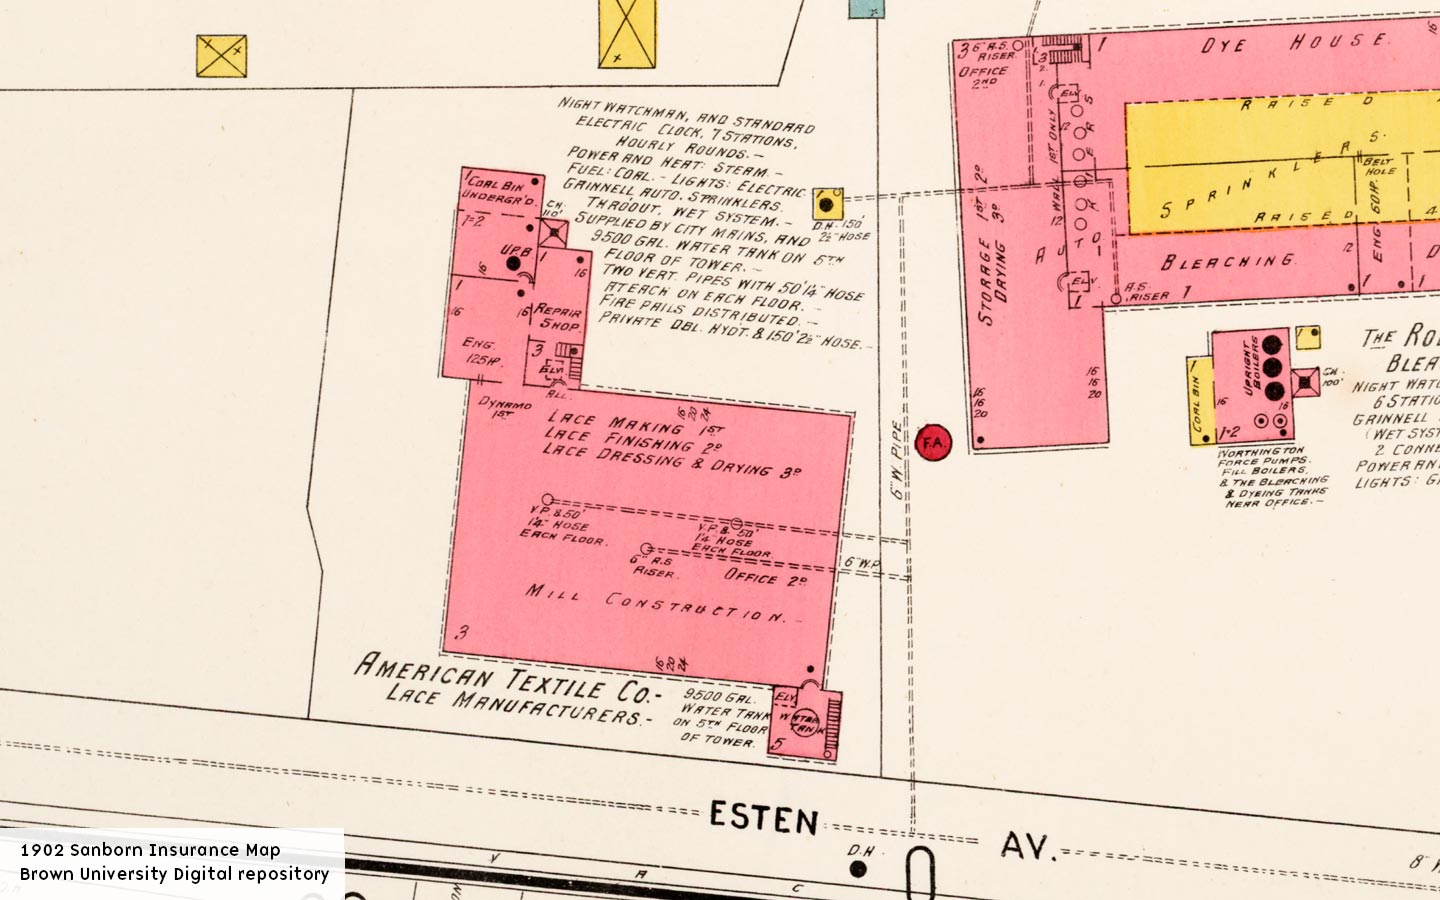
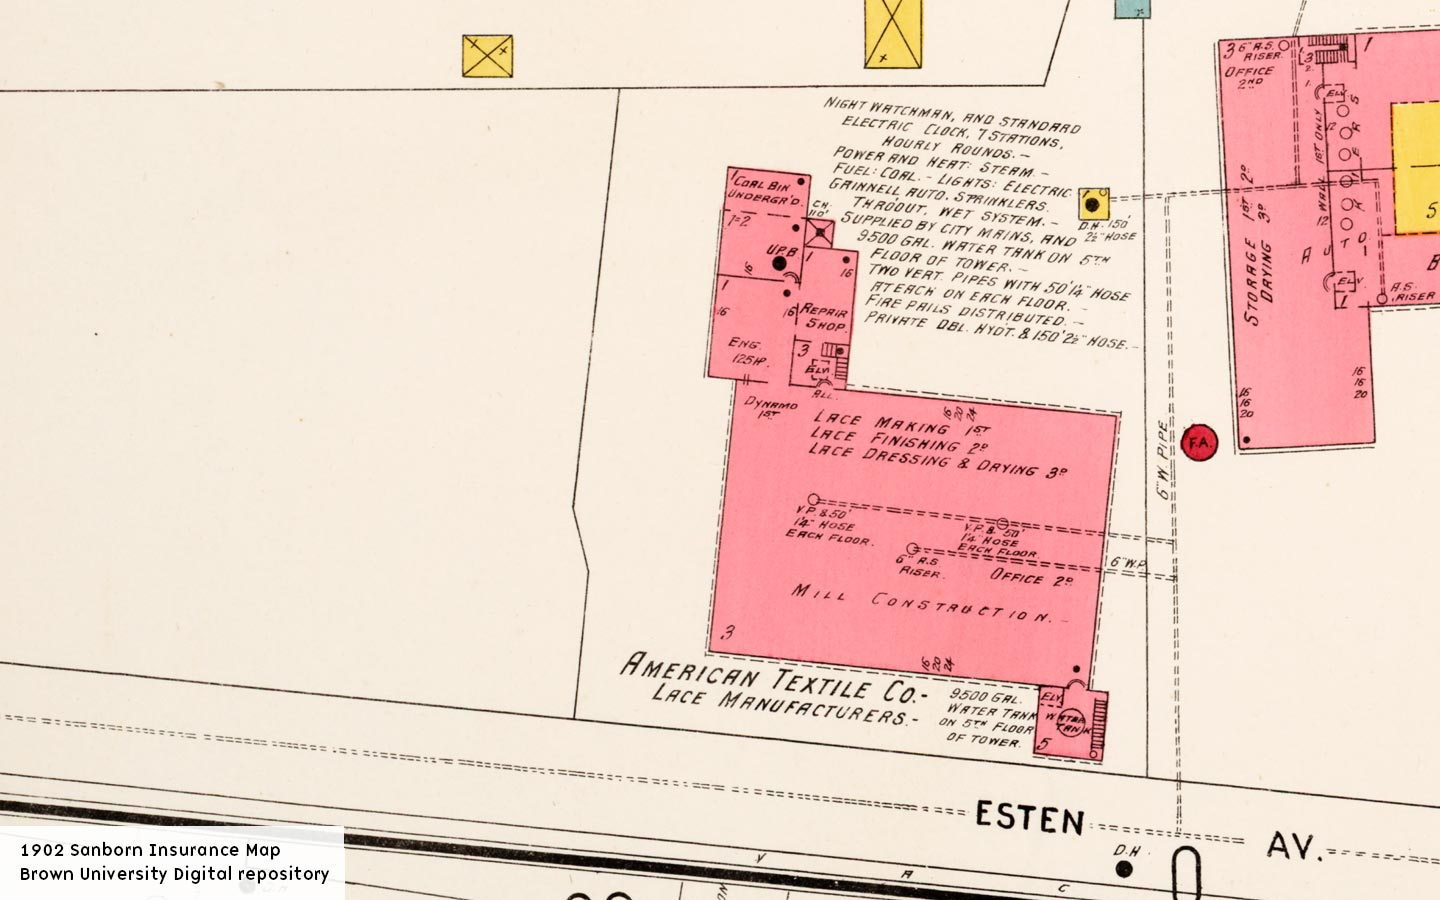
Updates to Amer Textile and Cumb Plastics

diff --git a/_property/american-textile-pwt.md b/_property/american-textile-pwt.md
@@ -4,7 +4,7 @@ slug: american-textile-pwt
 aka: 
 date-modified: 2021-02-27 12:00
 
-built: '1899'
+built: '1899, circa 1920'
 demolition: 
 redeveloped: 
 units:
@@ -34,10 +34,10 @@ thumbnail: amertextile-jh-2003-05-10.jpg
 
 images:
   - url: amertextile-ppl-date-unknown-01.jpg
-    caption: 'Date unknown (likely 1900–1920), before the 1949 weave shed and the fourth floor penthouse — Rhode Island Photograph Collection</a>, Providence Public Library'
+    caption: 'Date unknown (likely 1900–1910), before the 1920 weave shed and fourth floor penthouse — Rhode Island Photograph Collection</a>, Providence Public Library'
     alt: 'A four-story, twelve bay wide main red brick building, nine bays deep, with an ornate stair tower on the south east corner featuring a group of three arched windows, topped by brickwork design outlining five square crosses, topped by diamond brick patterns surrounding three circular windows, all topped by a double hip roof.'
   - url: amertextile-pawtlib-date-unknown-01.jpg
-    caption: 'Date unknown, before the 1949 weave shed but after the fourth floor penthouse — Pawtucket Library collection'
+    caption: 'Date unknown, before the 1920 weave shed but after the fourth floor penthouse — Pawtucket Library collection'
   - url: amertextile-jh-2003-05-01.jpg
   - url: amertextile-jh-2003-05-02.jpg
   - url: amertextile-jh-2003-05-03.jpg
@@ -66,8 +66,10 @@ images:
   - url: amertextile-jh-2003-05-26.jpg
   - url: amertextile-sanborn-1902-01.jpg
     caption: 'Sanborn Insurance Map from 1902, Brown University Digital repository. The weave shed has not yet been built and the 4th floor has not been added (note the “3” in the bottom left corner of the building footprint’s outline)'
+  - url: amertextile-sanborn-1923-01.jpg
+    caption: 'Sanborn Insurance Map from 1923, Brown University Digital repository. The weave shed has been built and the 4th floor has been added (note the “4th” along the yellow lines over the main structure, upside down)'
 
-imagescredit: 'Contributions from the <a href="//provlibdigital.org/islandora/object/islandora%3A11068" target="_blank">Rhode Island Photograph Collection</a>, Providence Public Library and <a href="//www.flickr.com/photos/pawtucketlibrary/46946460295/in/photolist-2fQQMqb-25iQTKn-2ewuT4e/" target="_blank">Pawtucket Library collection</a>'
+imagescredit: 'Contributions from the <a href="//provlibdigital.org/islandora/object/islandora%3A11068" target="_blank">Rhode Island Photograph Collection</a> at the Providence Public Library, <a href="//www.flickr.com/photos/pawtucketlibrary/46946460295/in/photolist-2fQQMqb-25iQTKn-2ewuT4e/" target="_blank">Pawtucket Library Flickr collection</a>, and the <a href="//repository.library.brown.edu/studio/item/bdr:212320/" target=_blank">Brown University Digital Repository</a>.'
 
 #external:
 #  - source: 'Providence Journal (permalink)'
@@ -88,7 +90,7 @@ The property is owned by a group of small real estate companies that also lease 
 
 ### History
 
-Designed by Howe, Prout, & Ekman (known for designing the 1950s addition to the Providence Public Library), this mill was once the largest lace producer in the country. A three-story brick pier building with 4th story penthouse featuring a 5-story elaborately detailed hip roof tower. The tower is a fine period example and can be seen from the surrounding neighborhood, including traffic on Interstate 95. A later addition (1945–1950) is attached at the north side, concealing a sawtooth weave shed behind it. 
+Designed by Howe, Prout, & Ekman (known for designing the 1950s addition to the Providence Public Library), this mill was once the largest lace producer in the country. A three-story brick pier building with 4th story penthouse featuring a 5-story elaborately detailed hip roof tower. The tower is a fine period example and can be seen from the surrounding neighborhood, including traffic on Interstate 95. A later addition of a sawtooth weave shed was added around 1920 on the north side. 
 
 _From “Pawtucket Past and Present, being a brief account of the beginning and progress of its industries and a resume of the early history of the city,” by the Slater Trust Company, 1917_
 

diff --git a/README.md b/README.md
@@ -1,9 +1,12 @@
 ArtInRuins
 ==========
 
-Locally generated static HTML site built with [Jekyll](https://jekyllrb.com/) with 
-[SASS](https://sass-lang.com/), and [Autoprefixer](https://github.com/vwochnik/jekyll-autoprefixer).
+View the production site: [ArtInRuins](//artinruins.com)
 
+Locally generated static HTML site built with [Jekyll](//jekyllrb.com/) with 
+[SASS](//sass-lang.com/), and [Autoprefixer](//github.com/vwochnik/jekyll-autoprefixer).
+
+***
 
 ## Get started with Bundler
 
@@ -25,6 +28,10 @@ Builds into the Stage folder: `_stage`.
 
 In a browser, open [http://127.0.0.1:4090/](http://127.0.0.1:4090/)
 
+**NOTE:** Certain files are not built during local development to keep build times 
+speedy. Check the `_config.yml` file for a list of the pages that are excluded.
+
+
 ## Build the Site for Production
 
 Specify the production environment to omit content intended for development only. 
@@ -39,6 +46,14 @@ builds and only upload what has changed. Will conditionally include the Google
 Analytics tag in production build mode. 
 
 
+## Custom post types (Collections)
+
+ArtInRuins has configured a custom “collection” (in Jekyll speak) called Properties 
+(`_property`). These files are in Markdown format with substantial FrontMatter to 
+support taxonomy linking for designer, years built, year demolished, lists, location, 
+and more. 
+
+
 ## Taxonomy pages
 
 Taxonomies like neighborhoods, towns, designers, years built, etc… are actually 
@@ -51,5 +66,5 @@ Example:
 {%- assign items = site.property | where: page.type, page.category | sort: "title" -%}
 ```
 
-For a "Date Added" page where `type: date-added` and `category: '2002'`, 
+For a “Date Added” page where `type: date-added` and `category: '2002'`, 
 `items` will be an array of Properties where `date-added` == `2002`. 

diff --git a/_property/cumberland-plastics.md b/_property/cumberland-plastics.md
@@ -72,6 +72,9 @@ The site is still undeveloped in 2020. While condemnation by the City put its de
 
 ### History
 
+More photos from the [Pawtucket Library Flickr collection](//www.flickr.com/photos/pawtucketlibrary/albums/72157708803331863){:target="_blank"}
+
+
 #### Fred M. Roddy & Cumberland Plastics
 
 Fred M. Roddy was the inventor who revolutionized the plastics industry and later founded Cumberland Engineering. Roddy invented machinery used to granulate plastic. Granulated plastic then could be molded into any other shape. The machines continue to be sold internationally. He formed Cumberland Engineering in Kingsport in 1939, and later, moved the company to Attleboro. ACS Group purchased Cumberland Engineering in 1999.
